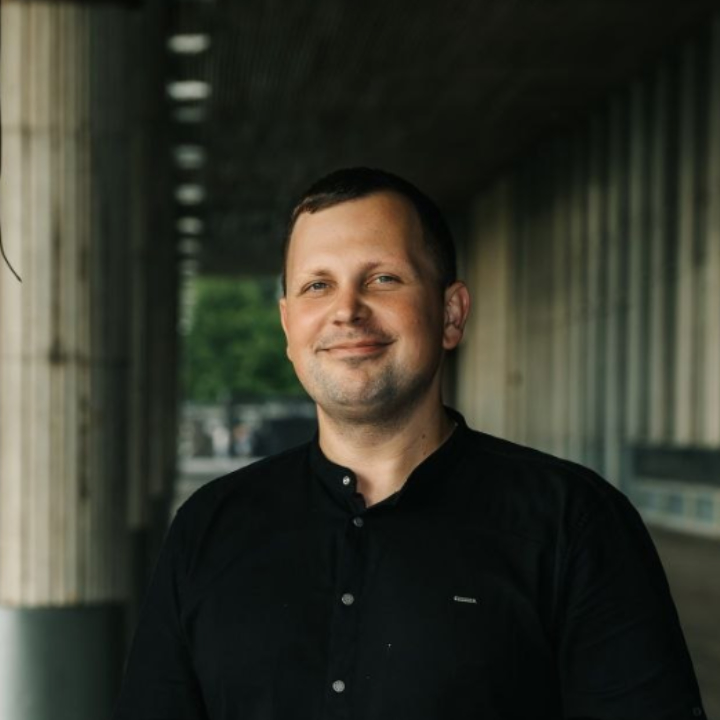
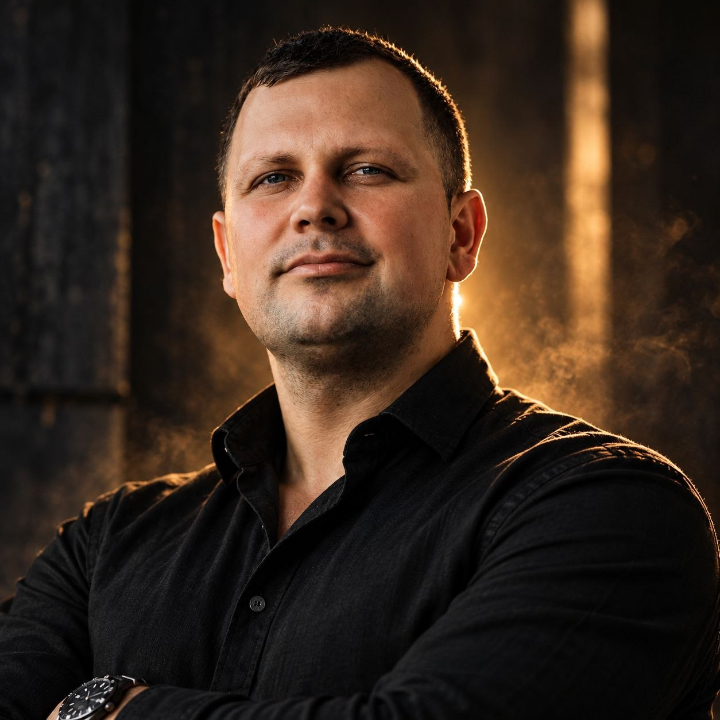
update teachers-1.jpg and content.js

diff --git a/js/content.js b/js/content.js
@@ -67,28 +67,35 @@ const CONTENT = {
         role: "Основатель. Преподаватель бачата, сальса и кизомба",
         description:
           "С 11 лет на паркете, 6 лет в бальных танцах, 7 лет в бачате и 3 года в роли преподавателя. Павел требователен, амбициозен и всегда нацелен на максимальный результат учеников. Он заряжает своей уверенностью на танцполе, ведь его главная цель - сделать из вас таких же крутых и техничных танцоров.",
-        photo: "img/teachers-1.jpg", // Замените на ваше фото
+        photo: "img/teachers-1.jpg",
       },
       {
         name: "Юля",
         role: "Преподаватель бачата, Lady Style",
         description:
           "Юля посвятила танцам всю свою жизнь, а ее преподавательский стаж составляет более 5 лет. Высокое мастерство и уникальный подход к обучению принесли ей заслуженное признание профессиональных ассоциаций.",
-        photo: "img/teachers-2.jpg", // Замените на ваше фото
+        photo: "img/teachers-2.jpg",
       },
       {
         name: "Лена",
         role: "Преподаватель бачата, Lady Style",
         description:
         "Лена танцует бачату 4 года, регулярно выступает и завоевывает призовые места на соревнованиях. На своих занятиях она делает акцент на развитие женственности, пластики и техники, уникально совмещая танцевальную базу с женским фитнесом. Лена непрерывно учится у топ-педагогов направления, гарантируя своим ученикам быстрый рост и вдохновляющие результаты.",
-        photo: "img/teachers-3.jpg", // Замените на ваше фото
+        photo: "img/teachers-3.jpg",
       },
       {
         name: "Наташа",
         role: "Преподаватель бачата, Lady Style",
         description:
-          "Наталья — актриса театра и кино, а также хореограф проектов на каналах «ТНТ» и «Ю». На занятиях по бачате она уникально совмещает танцевальную базу с актерской пластикой и психологией сцены. Наталья помогает ученикам раскрыть индивидуальность, преодолеть стеснение и сделать каждый танец ярким, харизматичным и кинематографичным.",
-        photo: "img/teachers-4.jpg", // Замените на ваше фото
+          "Наталья - актриса театра и кино, а также хореограф проектов на каналах «ТНТ» и «Ю». На занятиях по бачате она уникально совмещает танцевальную базу с актерской пластикой и психологией сцены. Наталья помогает ученикам раскрыть индивидуальность, преодолеть стеснение и сделать каждый танец ярким, харизматичным и кинематографичным.",
+        photo: "img/teachers-4.jpg",
+      },
+      {
+        name: "Екатерина",
+        role: "Преподаватель бачата, Lady Style",
+        description:
+          "Танцор, хореограф и преподаватель сольных и парных танцев с профессиональным опытом более 5 лет. Участница международных фестивалей и творческой команды Евгения Горенятенко («Танцы» на ТНТ). Совмещая парную базу с пластикой High Heels, Jazz Funk и Lady Style, она находит индивидуальный подход к каждому, помогая быстро раскрыть свой стиль в танце.",
+        photo: "img/teachers-5.jpg",
       },
     ],
   },
